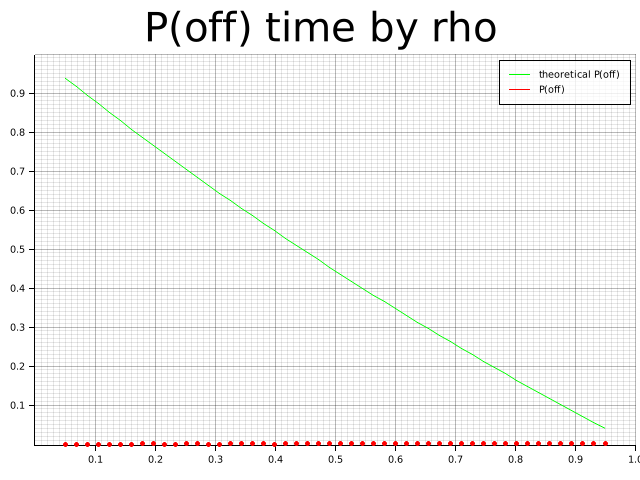
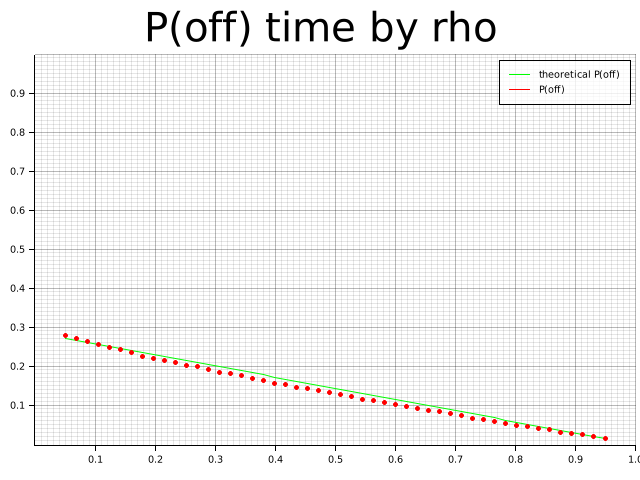
remove useless stuff, fix exp simulations, add E[W²] computation

diff --git a/src/main.rs b/src/main.rs
@@ -17,7 +17,8 @@ use crate::graphs::{
     print_p_setup_graph,
 };
 use indicatif::ProgressIterator;
-use rayon::prelude::*;
+use measures::Mean;
+use rayon::prelude::{IntoParallelRefIterator, ParallelIterator};
 use variables::Parameter;
 
 /// Entry point of the program
@@ -33,12 +34,10 @@ fn main() {
 
 fn launch_exp(simulations_by_batch: usize, arrivals_number: usize, theta: f64, rhos: &[f64]) {
     let lambda = 1.0;
-    // let mu = 1.0;
 
     let mut values: Vec<Data> = Vec::new();
     for &rho in rhos.iter().progress() {
         let mu = lambda / rho;
-        // let lambda = mu * rho;
 
         // simulations are computed in parallel
         let simulations = (0..=simulations_by_batch)
@@ -81,10 +80,11 @@ fn launch_exp(simulations_by_batch: usize, arrivals_number: usize, theta: f64, r
 
 fn launch_erlang(simulations_by_batch: usize, arrivals_number: usize, theta: f64, rhos: &[f64]) {
     let mut values: Vec<Data> = Vec::new();
-    let k = 10; // erlang shape
-    let beta = 1.0; // erlang scale -> /!\ rate = 1/beta
+    let k: usize = 10; // Erlang shape
+    let lambda = 1.0; // Poisson param
+    let mut d: Vec<f64> = Vec::new();
     for &rho in rhos.iter().progress() {
-        let lambda = rho / (k as f64 * beta); // Poisson param
+        let beta = rho / lambda / k as f64; // Erlang scale -> /!\ rate = 1/beta
 
         // simulations are computed in parallel
         let simulations = (0..=simulations_by_batch)
@@ -93,8 +93,18 @@ fn launch_erlang(simulations_by_batch: usize, arrivals_number: usize, theta: f64
             .map(|_| erlang_service_time(arrivals_number, lambda, theta, k, beta))
             .collect::<Vec<Simulation>>();
 
-        let avg_stay_time =
-            simulations.par_iter().map(|s| s.avg_stay()).sum::<f64>() / simulations.len() as f64;
+        let avg_stay_time = simulations
+            .par_iter()
+            .map(|s: &Simulation| s.avg_stay())
+            .sum::<f64>()
+            / simulations.len() as f64;
+
+        d.push(
+            simulations
+                .iter()
+                .map(|s: &Simulation| s.second_order_moment_waiting_delay())
+                .calculate_mean(),
+        );
 
         values.push(Data {
             rho,
@@ -120,6 +130,11 @@ fn launch_erlang(simulations_by_batch: usize, arrivals_number: usize, theta: f64
     let _ = print_avg_stay_graph_for_erlang(&values);
     let _ = print_p_setup_graph(&values, "images/erlang_p_setup_by_rho.png");
     let _ = print_p_off_graph(&values, "images/erlang_p_off_by_rho.png");
+
+    print!(
+        "E[W²] = 1/n * sum( (W_i - E[W])² ) = {}",
+        d.iter().calculate_mean()
+    );
 }
 
 /// Wrapper for the queue function, M/G/1 with service time distributed as exponential

diff --git a/src/measures.rs b/src/measures.rs
@@ -10,6 +10,21 @@ pub struct Data {
     pub probability_p_setup: f64,
     pub n_simulations: usize,
 }
+pub trait Mean {
+    fn calculate_mean(self) -> f64;
+}
+
+impl<F, T> Mean for T
+where
+    T: Iterator<Item = F>,
+    F: std::borrow::Borrow<f64>,
+{
+    fn calculate_mean(self) -> f64 {
+        self.zip(1..).fold(0., |s, (e, i)| {
+            (*e.borrow() + s * (i - 1) as f64) / i as f64
+        })
+    }
+}
 
 pub fn theoretic_stay_avg_exp(rho: f64, mu: f64, theta: f64) -> f64 {
     (1.0 / mu) / (1.0 - rho) + 1.0 / theta
@@ -31,33 +46,24 @@ pub fn theoretic_p_setup_gen(rho: f64, lambda: f64, expectation_start: f64) -> f
     (1.0 - rho) * expectation_start / (1.0 / lambda + expectation_start)
 }
 
-pub fn theoretic_expectation_delay(
-    rho: f64,
-    expectation_start: f64,
-    second_order_moment_start: f64,
-    lambda: f64,
-    expectation_service: f64,
-    second_order_moment_service: f64,
-) -> f64 {
-    rho * (second_order_moment_service / (2.0 * expectation_service)) / (1.0 - rho)
-        + 1.0 / lambda / (1.0 / lambda + expectation_start) * expectation_start
-        + expectation_start / (1.0 / lambda + expectation_start) * second_order_moment_start
-}
+pub fn theoretic_stay_avg_erlang(lambda: f64, theta: f64, rho: f64, k: usize, beta: f64) -> f64 {
+    assert!(1.0 < (1.0 / beta));
+    let e_b = 1.0 / ((1.0 - beta).powi(k as i32)); // with moment generator
+    let e_b = k as f64 * beta; // mean
+    let e_t = 1.0 / (1.0 - 1.0 / theta); // with moment generator
+    let e_t = 1.0 / theta; // mean
 
-pub fn theoretic_stay_avg_erlang(
-    rho: f64,
-    expectation_start: f64,
-    second_order_moment_start: f64,
-    lambda: f64,
-    expectation_service: f64,
-    second_order_moment_service: f64,
-) -> f64 {
-    theoretic_expectation_delay(
-        rho,
-        expectation_start,
-        second_order_moment_start,
-        lambda,
-        expectation_service,
-        second_order_moment_service,
-    ) + expectation_service
+    let e_bb = k as f64 / lambda / lambda; // variance
+    let e_bb = 1.0 / ((1.0 - 2.0 * beta).powi(k as i32)); // with moment generator
+    let e_tt = theta * theta; // variance
+    let e_tt = 1.0 / (1.0 - 2.0 / theta); // with moment generator
+
+    let e_rb = e_bb / 2.0 / e_b;
+    let e_rt = e_tt / 2.0 / e_t;
+
+    let e_w = rho * e_rb / (1.0 - rho)
+        + (1.0 / lambda) / (1.0 / lambda + e_t) * e_t
+        + e_t / (1.0 / lambda + e_t) * e_rt;
+
+    e_w + e_b
 }

diff --git a/src/graphs.rs b/src/graphs.rs
@@ -67,25 +67,7 @@ pub fn print_avg_stay_graph_for_erlang(
 
     let theoretical_avg_stay = values
         .iter()
-        .map(|v| {
-            let k = v.k.unwrap() as f64;
-            let beta = v.beta.unwrap();
-
-            let expectation_start: f64 = v.lambda;
-            let second_order_moment_start: f64 = v.lambda;
-
-            let expectation_service: f64 = k * beta;
-            let second_order_moment_service: f64 = k * beta * beta;
-
-            theoretic_stay_avg_erlang(
-                v.rho,
-                expectation_start,
-                second_order_moment_start,
-                v.lambda,
-                expectation_service,
-                second_order_moment_service,
-            )
-        })
+        .map(|v| theoretic_stay_avg_erlang(v.lambda, v.theta, v.rho, v.k.unwrap(), v.beta.unwrap()))
         .collect::<Vec<_>>();
 
     let rhos = values.iter().map(|v| v.rho).collect::<Vec<_>>();

diff --git a/src/variables.rs b/src/variables.rs
@@ -13,8 +13,8 @@ pub fn generator(parameter: &Parameter, n: usize) -> Vec<f64> {
                 .unwrap()
                 .sample_iter(&mut rand::thread_rng()) // generator following a poisson distribution
                 .take(n) // iter n times (generate n values)
-                .collect()
-        } // collect values into a nice `Vec`tor
+                .collect() // collect values into a nice `Vec`tor
+        }
         Parameter::Exponential(p) => Exp::new(p.lambda)
             .unwrap()
             .sample_iter(&mut rand::thread_rng())

diff --git a/src/simulation.rs b/src/simulation.rs
@@ -94,4 +94,8 @@ impl Simulation {
     pub fn probability_server_off(&self) -> f64 {
         self.nap_times.iter().sum::<f64>() / self.total_time.unwrap()
     }
+
+    pub fn second_order_moment_waiting_delay(&self) -> f64 {
+        self.delays.iter().map(|d| d * d).sum::<f64>() / self.delays.len() as f64
+    }
 }
